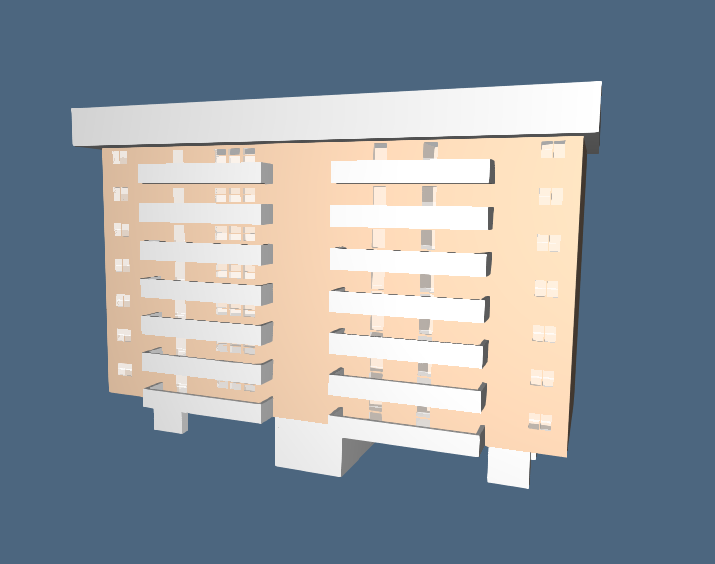
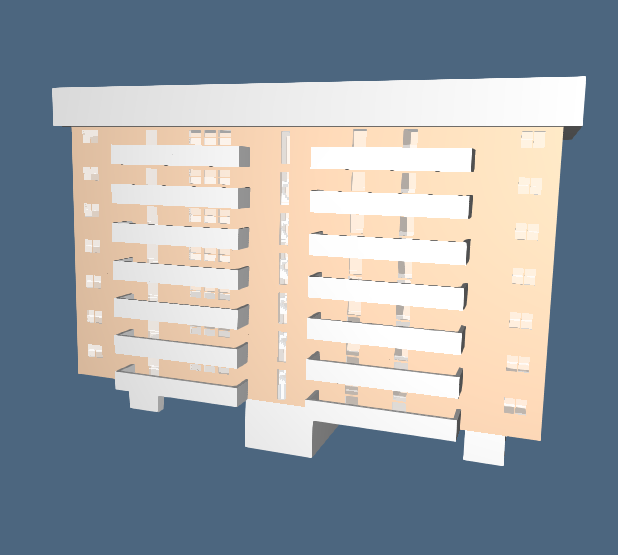
more details

Changed region(s): [[0.0615, 0.1225, 0.9531, 0.8883]]

diff --git a/2014-05-16/index.html b/2014-05-16/index.html
@@ -37,6 +37,7 @@ Pictures:
 	<li><a href="https://github.com/cvdlab-cg/440661/blob/master/2014-05-16/images/fig10.PNG">Exercise 2 - Dwelling model</a></li>
 	<li><a href="https://github.com/cvdlab-cg/440661/blob/master/2014-05-16/images/fig11.PNG">Exercise 2 - Dwelling model</a></li>
 	<li><a href="https://github.com/cvdlab-cg/440661/blob/master/2014-05-16/images/fig12.PNG">Exercise 2 - Final model - dwelling on a hill</a></li>
+	<li><a href="https://github.com/cvdlab-cg/440661/blob/master/2014-05-16/images/fig13.PNG">Exercise 2 - Final model - dwelling on a hill(2)</a></li>
 </ul>
 
 

diff --git a/2014-05-16/python/exercise2.py b/2014-05-16/python/exercise2.py
@@ -2,12 +2,6 @@ from exercise1 import *
 from splines import *
 pink9 = [1,0.855,0.725]
 
-"""Top of the dwelling"""
-top = assemblyDiagramInit([3,3,2])([[.3,14.1,.3],[.3,15.6,.3],[.3,2.7]])
-V,CV = top
-hpc = SKEL_1(STRUCT(MKPOLS(top)))
-hpc = cellNumbering (top,hpc)(range(len(CV)),CYAN,2)
-
 """Corridor"""
 ###################################
 #Corridor_base
@@ -15,7 +9,6 @@ Corridor_base = assemblyDiagramInit([5,3,2])([[.3,4.9,.1,8.8,.3],[.3,5,.3],[.3,3
 V,CV = Corridor_base
 hpc_corridor_base = SKEL_1(STRUCT(MKPOLS(Corridor_base)))
 hpc_corridor_base = cellNumbering (Corridor_base,hpc_corridor_base)(range(len(CV)),CYAN,2)
-#VIEW(hpc_corridor)
 
 toRemove = [9,15,21]
 Corridor_base = Corridor_base[0], [cell for k,cell in enumerate(Corridor_base[1]) if not (k in toRemove)]
@@ -36,7 +29,6 @@ corridor = assemblyDiagramInit([5,3,2])([[.3,4.9,.1,8.8,.3],[.3,5,.3],[.3,2.7]])
 V,CV = corridor
 hpc_corridor = SKEL_1(STRUCT(MKPOLS(corridor)))
 hpc_corridor = cellNumbering (corridor,hpc_corridor)(range(len(CV)),CYAN,2)
-#VIEW(hpc_corridor)
 
 toRemove = [9,8,15,21]
 corridor = corridor[0], [cell for k,cell in enumerate(corridor[1]) if not (k in toRemove)]
@@ -93,8 +85,7 @@ stair_floor = STRUCT([stair1, T([1,2,3])([0,2,1.3])(R([1,2])(PI/2)(stair1))
 					,T([1,2,3])([-2,2,2.6])(R([1,2])(PI)(stair1)),
    					T([1,2,3])([-2,0,3.5])(R([1,2])(3*PI/2)(stair1))
    					])
-#stair_floor = R([1,2])(PI/2)(stair_floor)
-#VIEW(stair_floor)
+
 
 """Hill"""
 c10 = larBezier(S1)([[0,0,0],[10,0,0]])
@@ -104,8 +95,6 @@ c21 = larBezier(S2)([[10,0,0],[10,5,3],[10,10,0]])
 dom = larDomain([10])
 dom2D = larModelProduct([dom, dom])
 out = larMap(larCoonsPatch([c10,c11,c20,c21]))(dom2D)
-
-
 
 """Struct balcone"""
 balcone = [0,1,2,3,4,5,6,7,8,9,10,11,12,13,14,15,16,17,18,19,20,21,22]
@@ -120,7 +109,6 @@ balcone2 = (STRUCT(MKPOLS(balcone2)))
 
 toRemove = [0,1,2,3,4,5,6,7,8,9,10,11,12,13,14,15,16,17,18,19,20,21,22]
 master = master[0], [cell for k,cell in enumerate(master[1]) if not (k in toRemove)]
-#VIEW(balcone)
 
 """Assembling"""
 column = CUBOID([1,3,4])
@@ -129,7 +117,6 @@ master = COLOR(pink9)(STRUCT(MKPOLS(master)))
 master = STRUCT([balcone, master, balcone2, hall_door, hall_window, hall_doorw,kitch_door,kitch_doorw,
 				s_door, n_door, w_door, sw_door, e_door, room_win, room_winr, room_win2])
 
-top = STRUCT(MKPOLS(top))
 corridor = COLOR(pink9)(STRUCT(MKPOLS(corridor)))
 corridor = STRUCT([corridor, T([1,2,3])([4.5,2,-4])(stair_floor)])
 Corridor_base = (STRUCT(MKPOLS(Corridor_base)))
@@ -138,16 +125,16 @@ hill = R([1,2])(79.999)(COLOR(GREEN)(STRUCT(MKPOLS(out))))
 
 floor = STRUCT([T(2)(-10.6)(master), T([1,2])([2,-16.2])(corridor), T([1,2])([2,-16.2])(cor_w), (T([1,2])([18.3,-16.2])(master_rotate)), 
 				])
-roof = T([3])([21])(CUBOID([17, 40, 3]))
+roof = T([3])([21])(CUBOID([17, 40, 3])) #top of the dwelling
 dwelling = STRUCT([T([1,2,3])([2,-16,-4])(Corridor_base), column_couple, T(2)(-30)(column_couple),
-				floor, T(3)(3)(floor), T(3)(6)(floor), T(3)(9)(floor), T(3)(12)(floor), #T(3)(15)(roof), T([1,2])([8,-5])(stairs)
+				floor, T(3)(3)(floor), T(3)(6)(floor), T(3)(9)(floor), T(3)(12)(floor),
 				T(3)(15)(floor),T(3)(18)(floor), T([1,2,3])([1.2,-33.5,0])(roof)])
 
-VIEW(dwelling)
+#VIEW(dwelling)
 
 ground = STRUCT([T(2)(-10)(hill), T(2)(17)(hill)])
 
 
-model = STRUCT([T([1,2,3])([5,-3.5,4.5])(dwelling), ground])
+model = STRUCT([T([1,2,3])([5,-3.5,7])(dwelling), ground])
 
-#VIEW(model)
+VIEW(model)
